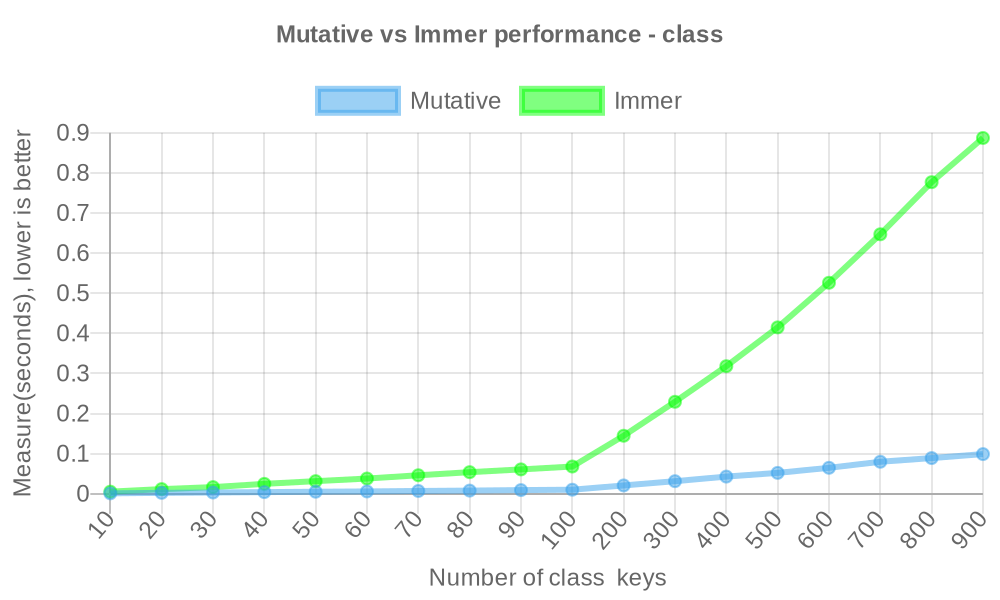
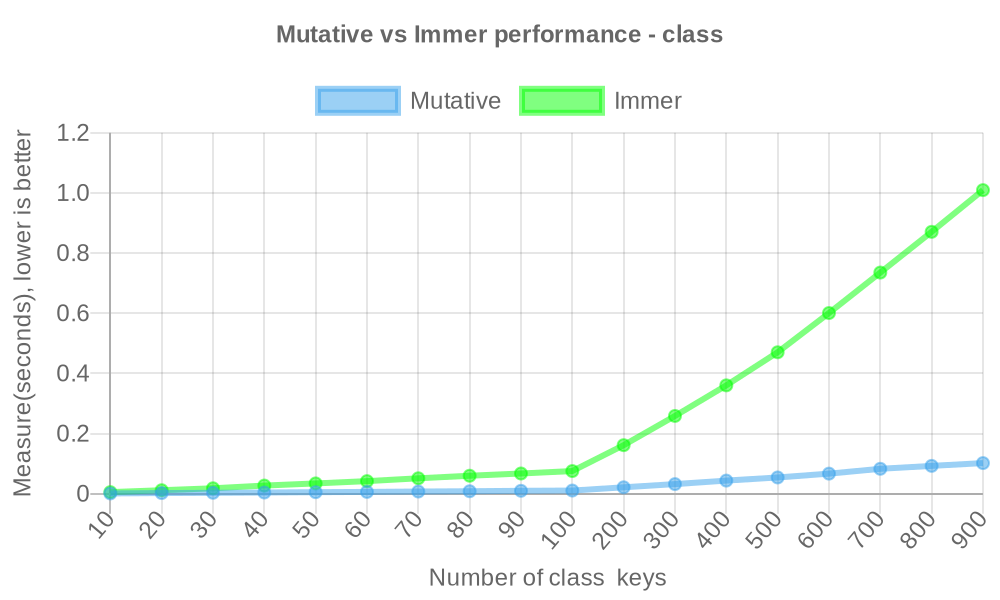
docs(benchmark): update benchmark doc

diff --git a/website/docs/extra-topics/comparison-with-immer.md b/website/docs/extra-topics/comparison-with-immer.md
@@ -25,23 +25,23 @@ Mutative has fewer bugs such as accidental draft escapes than Immer, [view detai
 
 > Mutative passed all of Immer's test cases.
 
-Measure(ops/sec) to update 50K arrays and 1K objects, bigger is better([view source](https://github.com/unadlib/mutative/blob/main/test/performance/benchmark.ts)). [Mutative v1.0.3 vs Immer v10.0.3]
+Measure(ops/sec) to update 50K arrays and 1K objects, bigger is better([view source](https://github.com/unadlib/mutative/blob/main/test/performance/benchmark.ts)). [Mutative v1.0.4 vs Immer v10.0.4]
 
 ![Benchmark](img/benchmark.jpg)
 
 ```
-Naive handcrafted reducer - No Freeze x 4,476 ops/sec ±0.38% (96 runs sampled)
-Mutative - No Freeze x 6,058 ops/sec ±0.91% (90 runs sampled)
-Immer - No Freeze x 5.80 ops/sec ±0.34% (19 runs sampled)
+Naive handcrafted reducer - No Freeze x 4,450 ops/sec ±0.36% (96 runs sampled)
+Mutative - No Freeze x 6,137 ops/sec ±1.15% (89 runs sampled)
+Immer - No Freeze x 5.27 ops/sec ±0.65% (18 runs sampled)
 
-Mutative - Freeze x 971 ops/sec ±1.07% (98 runs sampled)
-Immer - Freeze x 380 ops/sec ±0.61% (94 runs sampled)
+Mutative - Freeze x 960 ops/sec ±1.42% (95 runs sampled)
+Immer - Freeze x 378 ops/sec ±0.70% (93 runs sampled)
 
-Mutative - Patches and No Freeze x 967 ops/sec ±0.94% (96 runs sampled)
-Immer - Patches and No Freeze x 5.83 ops/sec ±0.17% (19 runs sampled)
+Mutative - Patches and No Freeze x 960 ops/sec ±1.32% (97 runs sampled)
+Immer - Patches and No Freeze x 5.27 ops/sec ±0.69% (18 runs sampled)
 
-Mutative - Patches and Freeze x 502 ops/sec ±0.94% (96 runs sampled)
-Immer - Patches and Freeze x 278 ops/sec ±0.73% (90 runs sampled)
+Mutative - Patches and Freeze x 493 ops/sec ±1.40% (94 runs sampled)
+Immer - Patches and Freeze x 275 ops/sec ±0.62% (89 runs sampled)
 
 The fastest method is Mutative - No Freeze
 ```

diff --git a/README.md b/README.md
@@ -108,23 +108,23 @@ Mutative is up to 6x faster than naive handcrafted reducer for updating immutabl
 
 > Mutative passed all of Immer's test cases.
 
-Measure(ops/sec) to update 50K arrays and 1K objects, bigger is better([view source](https://github.com/unadlib/mutative/blob/main/test/performance/benchmark.ts)). [Mutative v1.0.3 vs Immer v10.0.3]
+Measure(ops/sec) to update 50K arrays and 1K objects, bigger is better([view source](https://github.com/unadlib/mutative/blob/main/test/performance/benchmark.ts)). [Mutative v1.0.4 vs Immer v10.0.4]
 
 ![Benchmark](benchmark.jpg)
 
 ```
-Naive handcrafted reducer - No Freeze x 4,476 ops/sec ±0.38% (96 runs sampled)
-Mutative - No Freeze x 6,058 ops/sec ±0.91% (90 runs sampled)
-Immer - No Freeze x 5.80 ops/sec ±0.34% (19 runs sampled)
+Naive handcrafted reducer - No Freeze x 4,450 ops/sec ±0.36% (96 runs sampled)
+Mutative - No Freeze x 6,137 ops/sec ±1.15% (89 runs sampled)
+Immer - No Freeze x 5.27 ops/sec ±0.65% (18 runs sampled)
 
-Mutative - Freeze x 971 ops/sec ±1.07% (98 runs sampled)
-Immer - Freeze x 380 ops/sec ±0.61% (94 runs sampled)
+Mutative - Freeze x 960 ops/sec ±1.42% (95 runs sampled)
+Immer - Freeze x 378 ops/sec ±0.70% (93 runs sampled)
 
-Mutative - Patches and No Freeze x 967 ops/sec ±0.94% (96 runs sampled)
-Immer - Patches and No Freeze x 5.83 ops/sec ±0.17% (19 runs sampled)
+Mutative - Patches and No Freeze x 960 ops/sec ±1.32% (97 runs sampled)
+Immer - Patches and No Freeze x 5.27 ops/sec ±0.69% (18 runs sampled)
 
-Mutative - Patches and Freeze x 502 ops/sec ±0.94% (96 runs sampled)
-Immer - Patches and Freeze x 278 ops/sec ±0.73% (90 runs sampled)
+Mutative - Patches and Freeze x 493 ops/sec ±1.40% (94 runs sampled)
+Immer - Patches and Freeze x 275 ops/sec ±0.62% (89 runs sampled)
 
 The fastest method is Mutative - No Freeze
 ```

diff --git a/website/blog/releases/1.0/index.md b/website/blog/releases/1.0/index.md
@@ -81,23 +81,23 @@ const state = create(baseState, (draft) => {
 
 > Mutative passed all of Immer's test cases.
 
-Measure(ops/sec) to update 50K arrays and 1K objects, bigger is better([view source](https://github.com/unadlib/mutative/blob/main/test/performance/benchmark.ts)). [Mutative v1.0.3 vs Immer v10.0.3]
+Measure(ops/sec) to update 50K arrays and 1K objects, bigger is better([view source](https://github.com/unadlib/mutative/blob/main/test/performance/benchmark.ts)). [Mutative v1.0.4 vs Immer v10.0.4]
 
 ![Benchmark](img/benchmark.jpg)
 
 ```
-Naive handcrafted reducer - No Freeze x 4,476 ops/sec ±0.38% (96 runs sampled)
-Mutative - No Freeze x 6,058 ops/sec ±0.91% (90 runs sampled)
-Immer - No Freeze x 5.80 ops/sec ±0.34% (19 runs sampled)
+Naive handcrafted reducer - No Freeze x 4,450 ops/sec ±0.36% (96 runs sampled)
+Mutative - No Freeze x 6,137 ops/sec ±1.15% (89 runs sampled)
+Immer - No Freeze x 5.27 ops/sec ±0.65% (18 runs sampled)
 
-Mutative - Freeze x 971 ops/sec ±1.07% (98 runs sampled)
-Immer - Freeze x 380 ops/sec ±0.61% (94 runs sampled)
+Mutative - Freeze x 960 ops/sec ±1.42% (95 runs sampled)
+Immer - Freeze x 378 ops/sec ±0.70% (93 runs sampled)
 
-Mutative - Patches and No Freeze x 967 ops/sec ±0.94% (96 runs sampled)
-Immer - Patches and No Freeze x 5.83 ops/sec ±0.17% (19 runs sampled)
+Mutative - Patches and No Freeze x 960 ops/sec ±1.32% (97 runs sampled)
+Immer - Patches and No Freeze x 5.27 ops/sec ±0.69% (18 runs sampled)
 
-Mutative - Patches and Freeze x 502 ops/sec ±0.94% (96 runs sampled)
-Immer - Patches and Freeze x 278 ops/sec ±0.73% (90 runs sampled)
+Mutative - Patches and Freeze x 493 ops/sec ±1.40% (94 runs sampled)
+Immer - Patches and Freeze x 275 ops/sec ±0.62% (89 runs sampled)
 
 The fastest method is Mutative - No Freeze
 ```

diff --git a/website/docs/getting-started/performance.md b/website/docs/getting-started/performance.md
@@ -69,23 +69,23 @@ const state = create(baseState, (draft) => {
 
 > Mutative passed all of Immer's test cases.
 
-Measure(ops/sec) to update 50K arrays and 1K objects, bigger is better([view source](https://github.com/unadlib/mutative/blob/main/test/performance/benchmark.ts)). [Mutative v1.0.3 vs Immer v10.0.3]
+Measure(ops/sec) to update 50K arrays and 1K objects, bigger is better([view source](https://github.com/unadlib/mutative/blob/main/test/performance/benchmark.ts)). [Mutative v1.0.4 vs Immer v10.0.4]
 
 ![Benchmark](img/benchmark.jpg)
 
 ```
-Naive handcrafted reducer - No Freeze x 4,476 ops/sec ±0.38% (96 runs sampled)
-Mutative - No Freeze x 6,058 ops/sec ±0.91% (90 runs sampled)
-Immer - No Freeze x 5.80 ops/sec ±0.34% (19 runs sampled)
+Naive handcrafted reducer - No Freeze x 4,450 ops/sec ±0.36% (96 runs sampled)
+Mutative - No Freeze x 6,137 ops/sec ±1.15% (89 runs sampled)
+Immer - No Freeze x 5.27 ops/sec ±0.65% (18 runs sampled)
 
-Mutative - Freeze x 971 ops/sec ±1.07% (98 runs sampled)
-Immer - Freeze x 380 ops/sec ±0.61% (94 runs sampled)
+Mutative - Freeze x 960 ops/sec ±1.42% (95 runs sampled)
+Immer - Freeze x 378 ops/sec ±0.70% (93 runs sampled)
 
-Mutative - Patches and No Freeze x 967 ops/sec ±0.94% (96 runs sampled)
-Immer - Patches and No Freeze x 5.83 ops/sec ±0.17% (19 runs sampled)
+Mutative - Patches and No Freeze x 960 ops/sec ±1.32% (97 runs sampled)
+Immer - Patches and No Freeze x 5.27 ops/sec ±0.69% (18 runs sampled)
 
-Mutative - Patches and Freeze x 502 ops/sec ±0.94% (96 runs sampled)
-Immer - Patches and Freeze x 278 ops/sec ±0.73% (90 runs sampled)
+Mutative - Patches and Freeze x 493 ops/sec ±1.40% (94 runs sampled)
+Immer - Patches and Freeze x 275 ops/sec ±0.62% (89 runs sampled)
 
 The fastest method is Mutative - No Freeze
 ```
